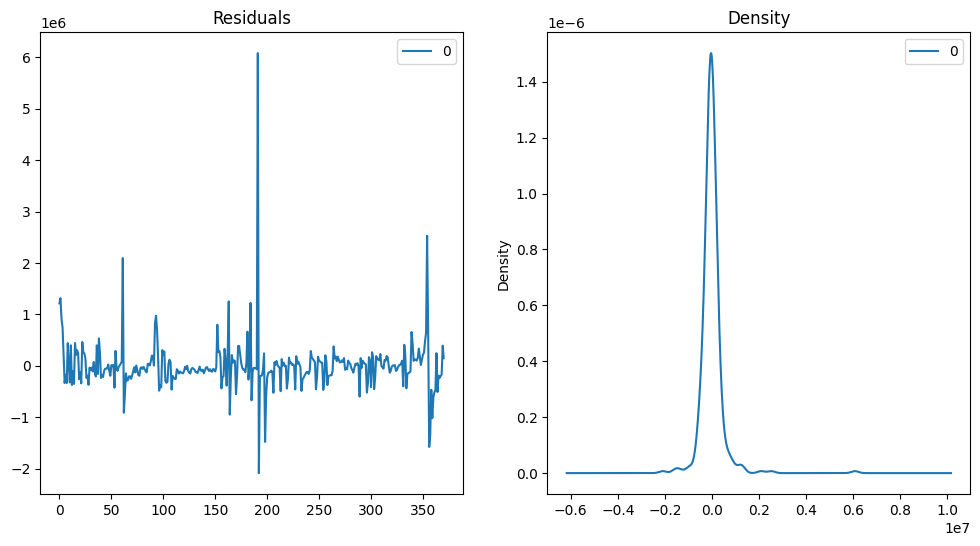
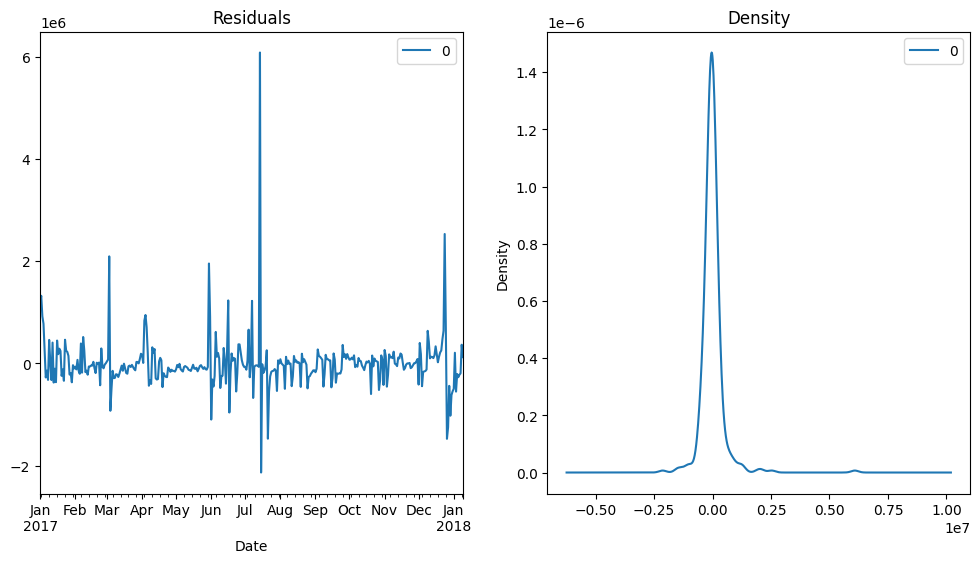
ARIMA.py

diff --git a/ARIMA.py b/ARIMA.py
@@ -5,8 +5,8 @@ import matplotlib.pyplot as plt
 import statsmodels.api as sm
 from statsmodels.tsa.arima.model import ARIMA
 import datetime as dt
+import sklearn.metrics as met
 import numpy as np
-from sklearn.metrics import mean_squared_error
 
 file = 'dataset/coldplay_grouped_by.csv'
 coldplay = pd.read_csv(file)
@@ -42,16 +42,15 @@ def ARIMA_model(p, d, q, df):
     ax = plt.gca()
     results = model.fit()
     plt.plot(df)
-    plt.plot(results.fittedvalues, color='red')
+    plt.plot(pd.DataFrame(results.fittedvalues, columns=['Streams']).set_index(df.index), color='red')
     ax.legend(['Streams', 'Forecast'])
     plt.savefig('ARIMA/Predictions', bbox_inches='tight')
+    ax.set_xlim(dt.datetime(2017, 1, 1), dt.datetime(2018, 1, 9))
     plt.show()
     print(results.summary())
 
-
-
     # residual error
-    residuals = pd.DataFrame(results.resid)
+    residuals = pd.DataFrame(results.resid).set_index(df.index)
     fig, ax = plt.subplots(1, 2, figsize=(12, 6))
     residuals.plot(title="Residuals", ax=ax[0])
     residuals.plot(kind='kde', title='Density', ax=ax[1])
@@ -87,15 +86,23 @@ def train_ARIMA(p, d, q, df):
     ax.set_ylabel('Streams')
     ax.set_xlim(dt.datetime(2017, 1, 1), dt.datetime(2018, 1, 9))
 
-
-
-
     plt.legend()
     plt.show()
+    return pred_uc, test_data
 
 # ACF_PACF(coldplay['Streams'], 'ARIMA/ACF_PACF')
 # ADF_test(coldplay['Streams'])
 
-# ARIMA_model(1, 0, 2, coldplay['Streams'])
+# ARIMA_model(1, 0, 2, coldplay_date['Streams'])
 
-train_ARIMA(1, 0, 2, coldplay_date)
+pred_uc, test_data = train_ARIMA(1, 0, 2, coldplay_date)
+
+predicted = pred_uc.predicted_mean
+mape = met.mean_absolute_percentage_error(test_data, predicted)
+sqe = met.mean_squared_error(test_data.squeeze(), predicted)
+mae = met.mean_absolute_error(test_data, predicted)
+r2 = met.r2_score(test_data, predicted)
+print(mape)
+print(sqe)
+print(mae)
+print(r2)
